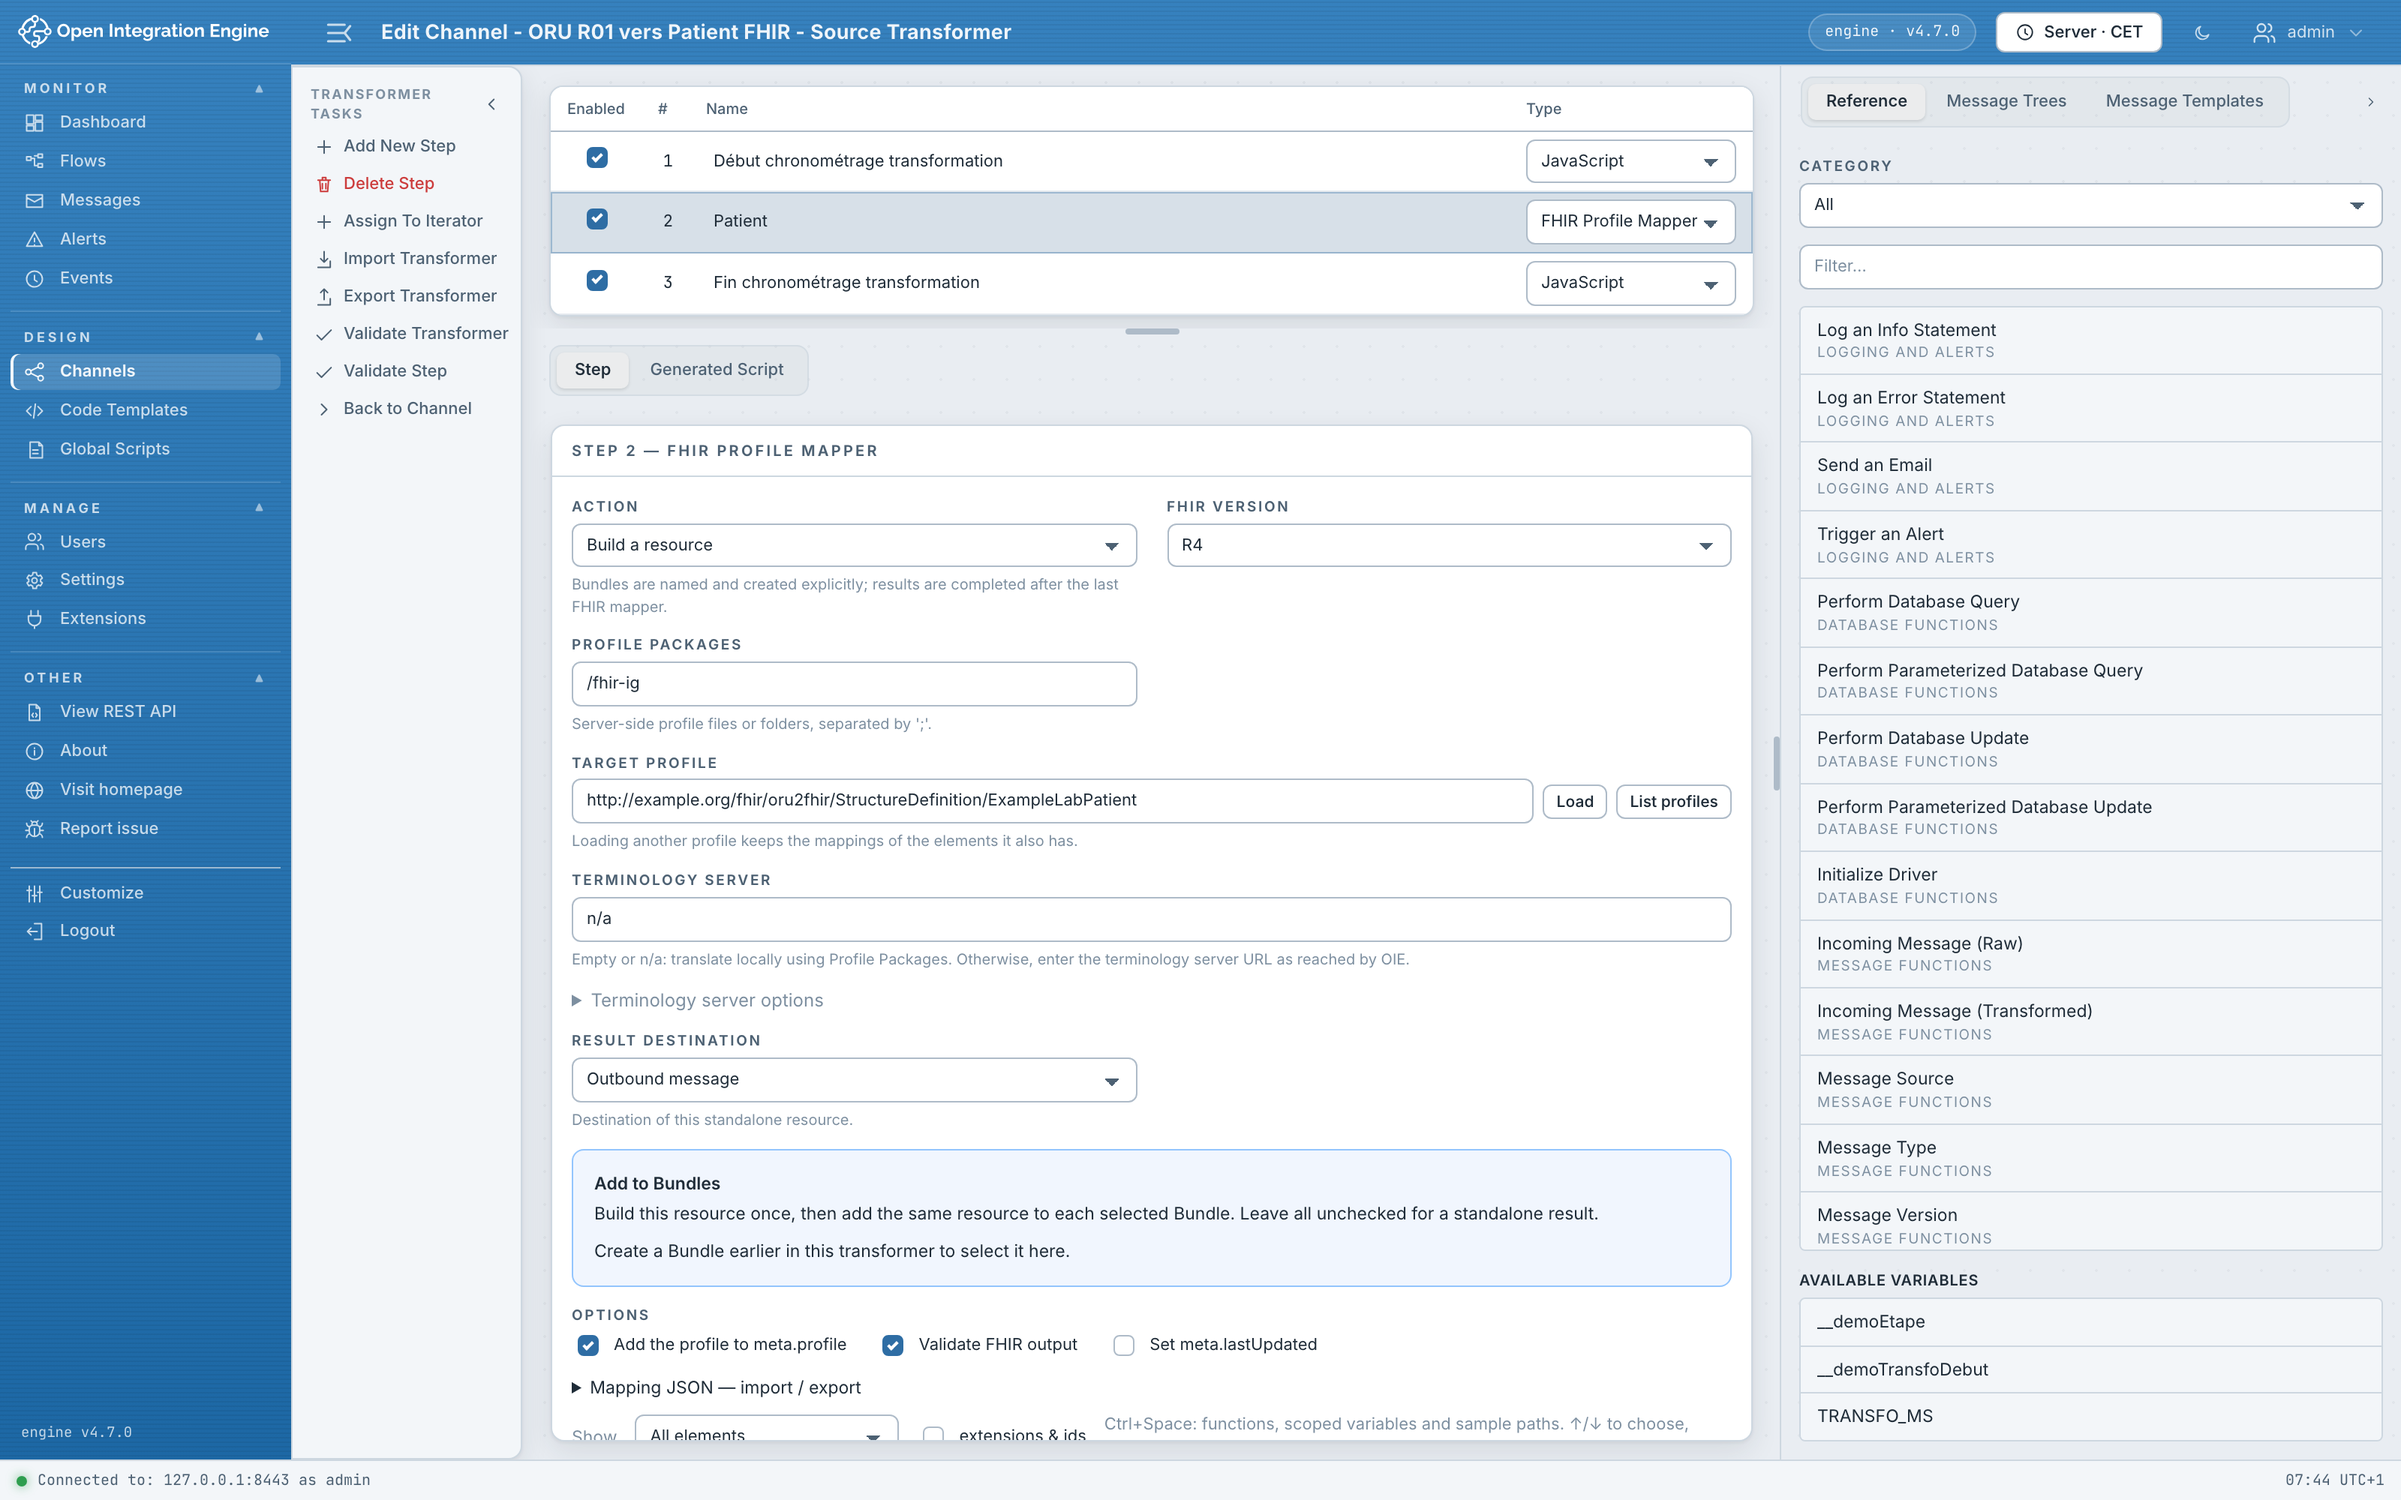
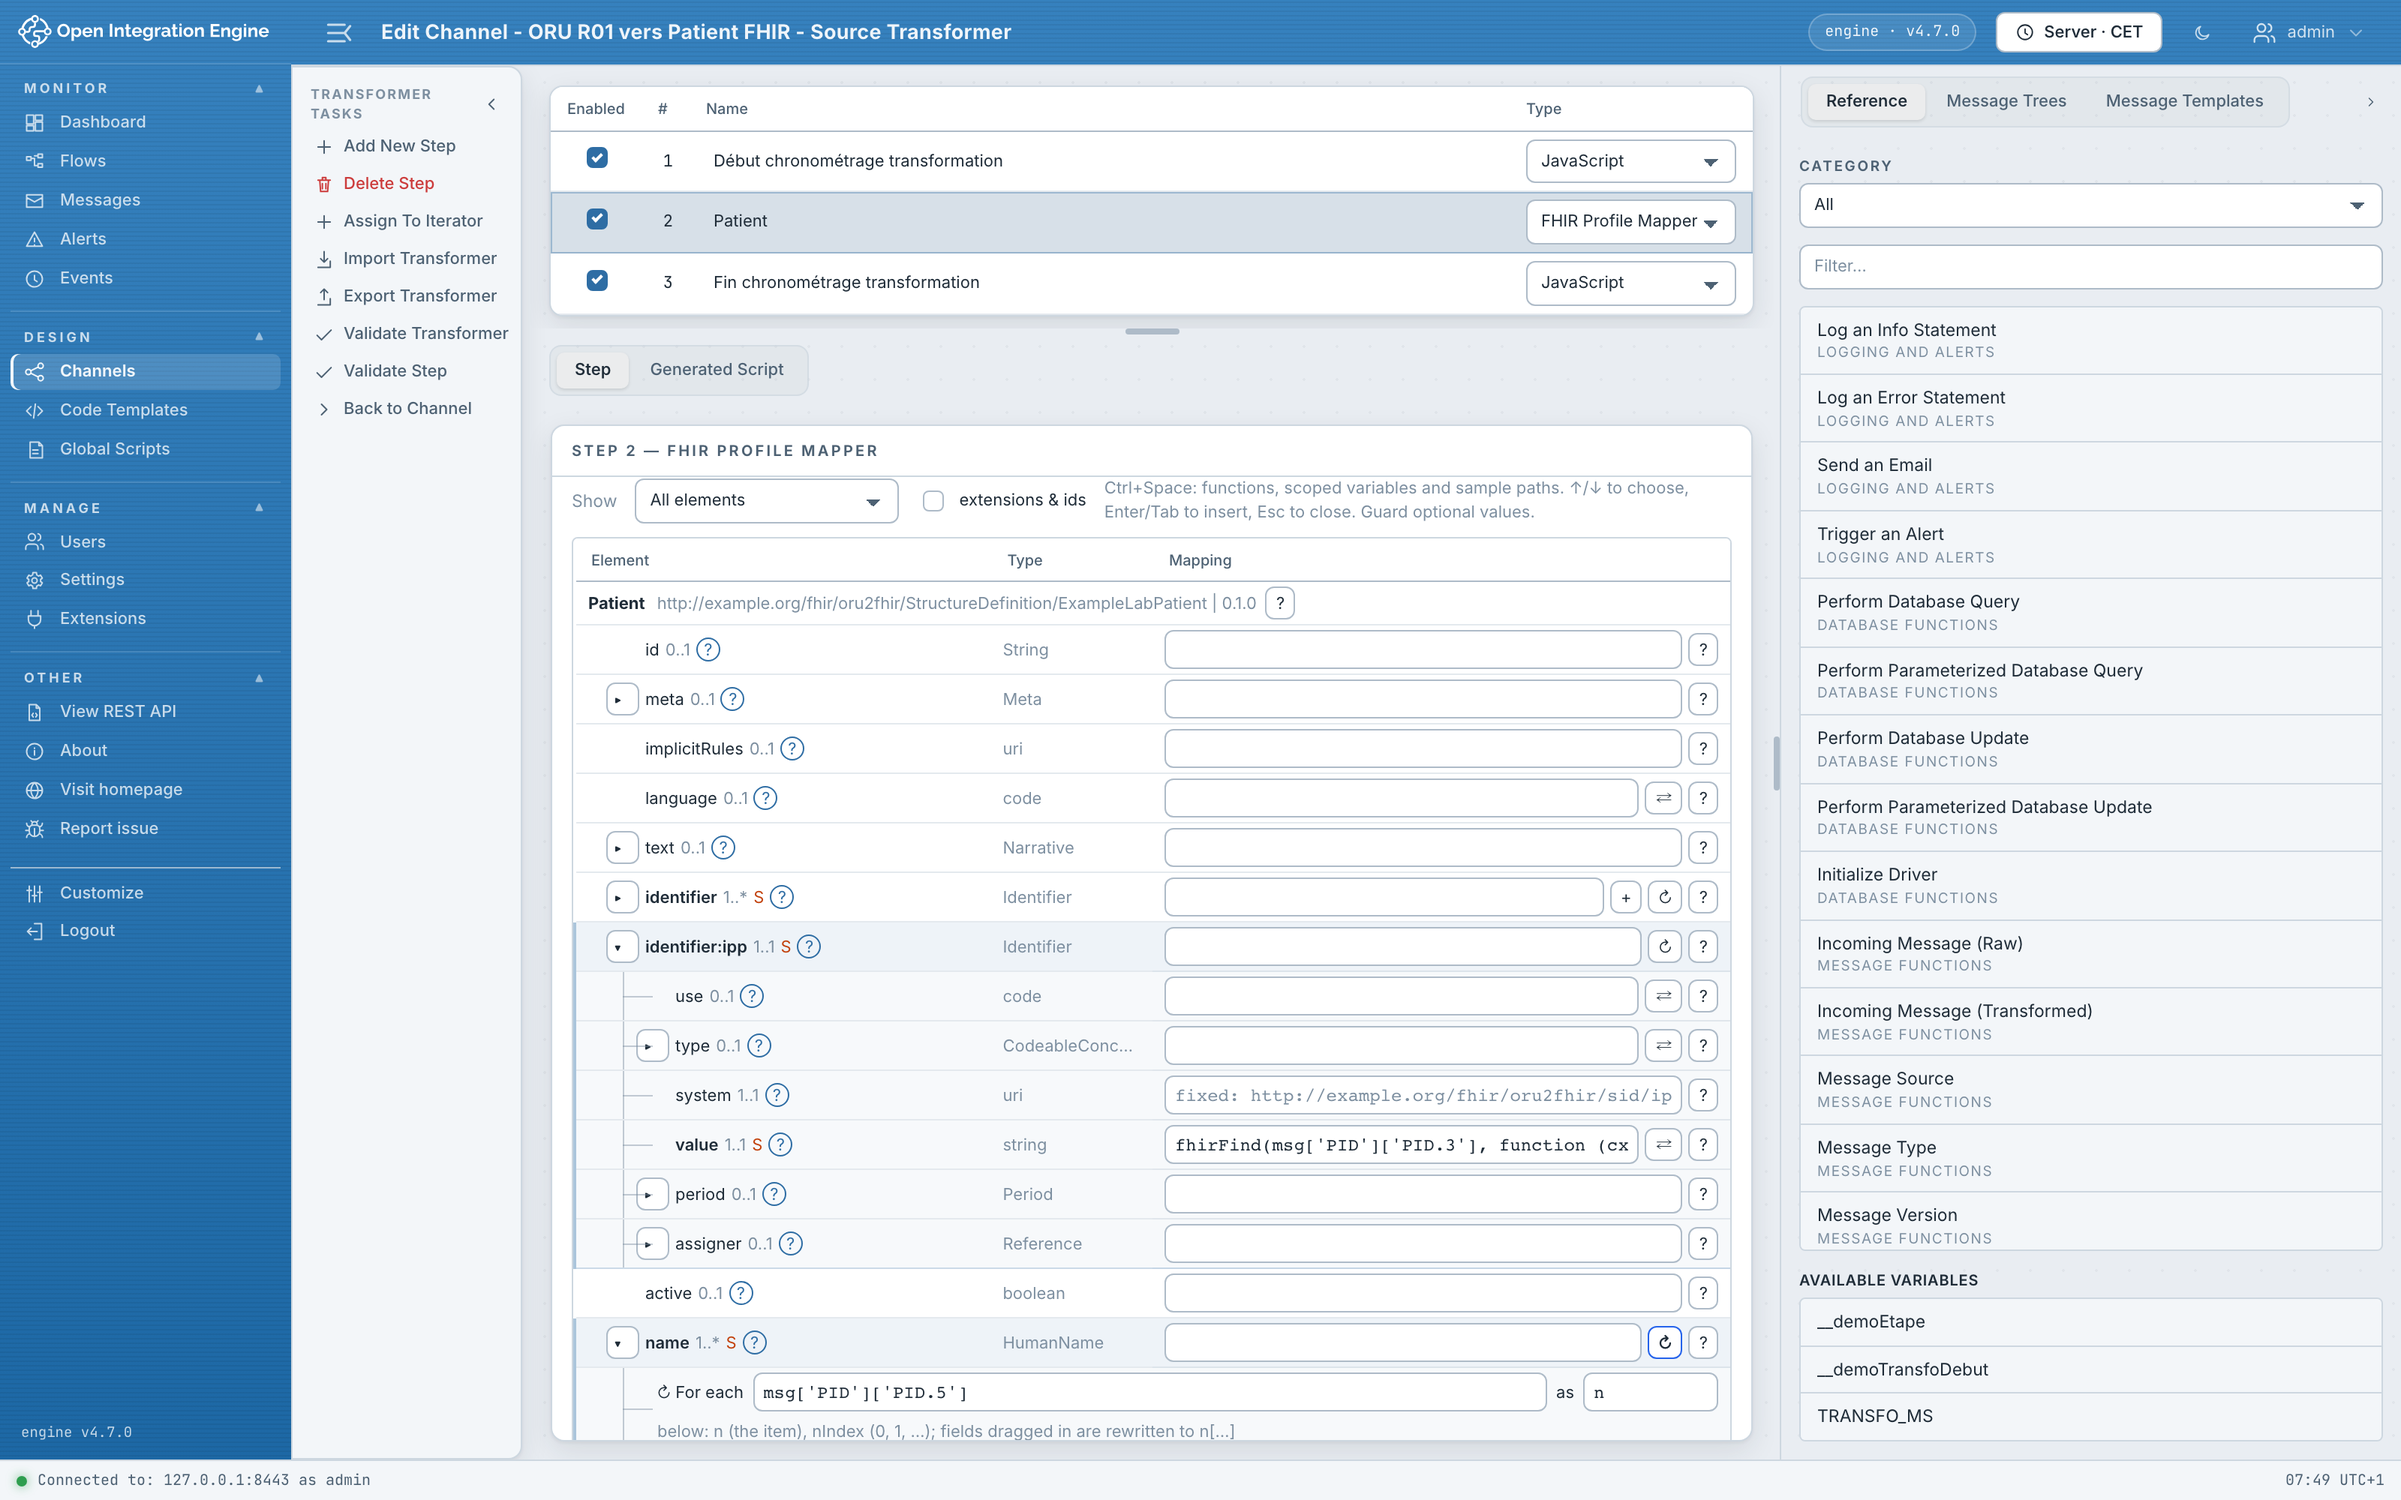
docs: README en anglais et capture du mappage FHIR

Changed region(s): [[0.2188, 0.31, 0.7188, 0.961], [0.4375, 0.682, 0.4688, 0.713], [0.4062, 0.744, 0.4375, 0.775]]

diff --git a/README.md b/README.md
@@ -1,52 +1,54 @@
 # OIE FHIR Profile Mapper
 
-Plugin pour [Open Integration Engine](https://github.com/OpenIntegrationEngine/engine)
-(OIE 4.7, Web Admin 1.3) : il construit des ressources et des Bundles FHIR à partir
-de messages métier, et montre le parcours des messages dans chaque canal.
-Il nécessite le plugin **FHIR Data Type**.
+A plugin for [Open Integration Engine](https://github.com/OpenIntegrationEngine/engine)
+(OIE 4.7, Web Admin 1.3). It builds FHIR resources and Bundles from business
+messages, and shows how messages move through each channel.
+It requires the **FHIR Data Type** plugin.
 
 ## FHIR Profile Mapper
 
-Une étape de transformer qui mappe un message vers un profil FHIR : arbre du profil,
-expressions, conditions, répétitions, traductions, références entre ressources,
-validation FHIR et diagnostics par règle.
+A transformer step that maps a message onto a FHIR profile: profile tree, slices,
+expressions, conditions, iterations, translations, references between resources,
+FHIR validation and per-rule diagnostics.
 
-![FHIR Profile Mapper dans un transformer](docs/images/fhir-mapper.png)
+![FHIR Profile Mapper in a transformer](docs/images/fhir-mapper.png)
 
 ## Flow
 
-L’onglet **Flow** de l’éditeur de canal dessine le trajet d’un message : source,
-chaînes de destinations, postprocessing et réponse. Chaque composant ouvre son
-éditeur, et `+` ajoute un filtre ou une étape. Trois vues : Line, Columns, Bands.
+The **Flow** tab of the channel editor draws the path of a message: source,
+destination chains, postprocessing and response. Every component opens its editor,
+and `+` adds a filter rule or a step. Three layouts: Line, Columns, Bands.
 
-![Onglet Flow d’un canal](docs/images/channel-flow.png)
+![Flow tab of a channel](docs/images/channel-flow.png)
 
 ## Flows
 
-La vue **Flows** (section Monitor) présente les canaux déployés par groupe, chacun sur
-une ligne, avec ses compteurs par connecteur. Un compteur ouvre Messages sur le bon
-connecteur et le bon statut.
+The **Flows** view (Monitor section) shows deployed channels by group, one channel
+per row, with message counters for each connector. A counter opens Messages on the
+right connector and status.
 
-![Vue Flows avec les compteurs](docs/images/flows.png)
+![Flows view with counters](docs/images/flows.png)
 
-## Essayer
+## Try it
 
 ```sh
 cd demo
 docker compose up -d --build
-python3 examples/check.py   # envoie des messages dans les canaux de démo
+python3 examples/check.py   # sends messages through the demo channels
 ```
 
-Administration : <https://localhost:8443/oie-webadmin/> (`admin` /
-`demo-fhir-mapper-admin`). Détails dans [Démonstration](docs/Demo.md).
+Administration: <https://localhost:8443/oie-webadmin/> (`admin` /
+`demo-fhir-mapper-admin`). See the [demo guide](docs/Demo.md) (in French).
 
 ## Documentation
 
-- [Développement et installation](docs/Developpement.md)
-- [Mapper graphique](docs/Mappeur-graphique.md)
-- [Flow et Flows](docs/Channel-Flow.md)
-- [Assistants et parcours IA](docs/Assistants-et-IA.md)
-- [Trace des tests](docs/Trace.md)
-- [Plan du projet](docs/Plan.md)
+Detailed documentation is in French:
 
-Licence : [Mozilla Public License 2.0](LICENSE).
+- [Development and installation](docs/Developpement.md)
+- [Graphical mapper](docs/Mappeur-graphique.md)
+- [Flow and Flows](docs/Channel-Flow.md)
+- [Code assistants and AI workflow](docs/Assistants-et-IA.md)
+- [Test traces](docs/Trace.md)
+- [Project plan](docs/Plan.md)
+
+License: [Mozilla Public License 2.0](LICENSE).
